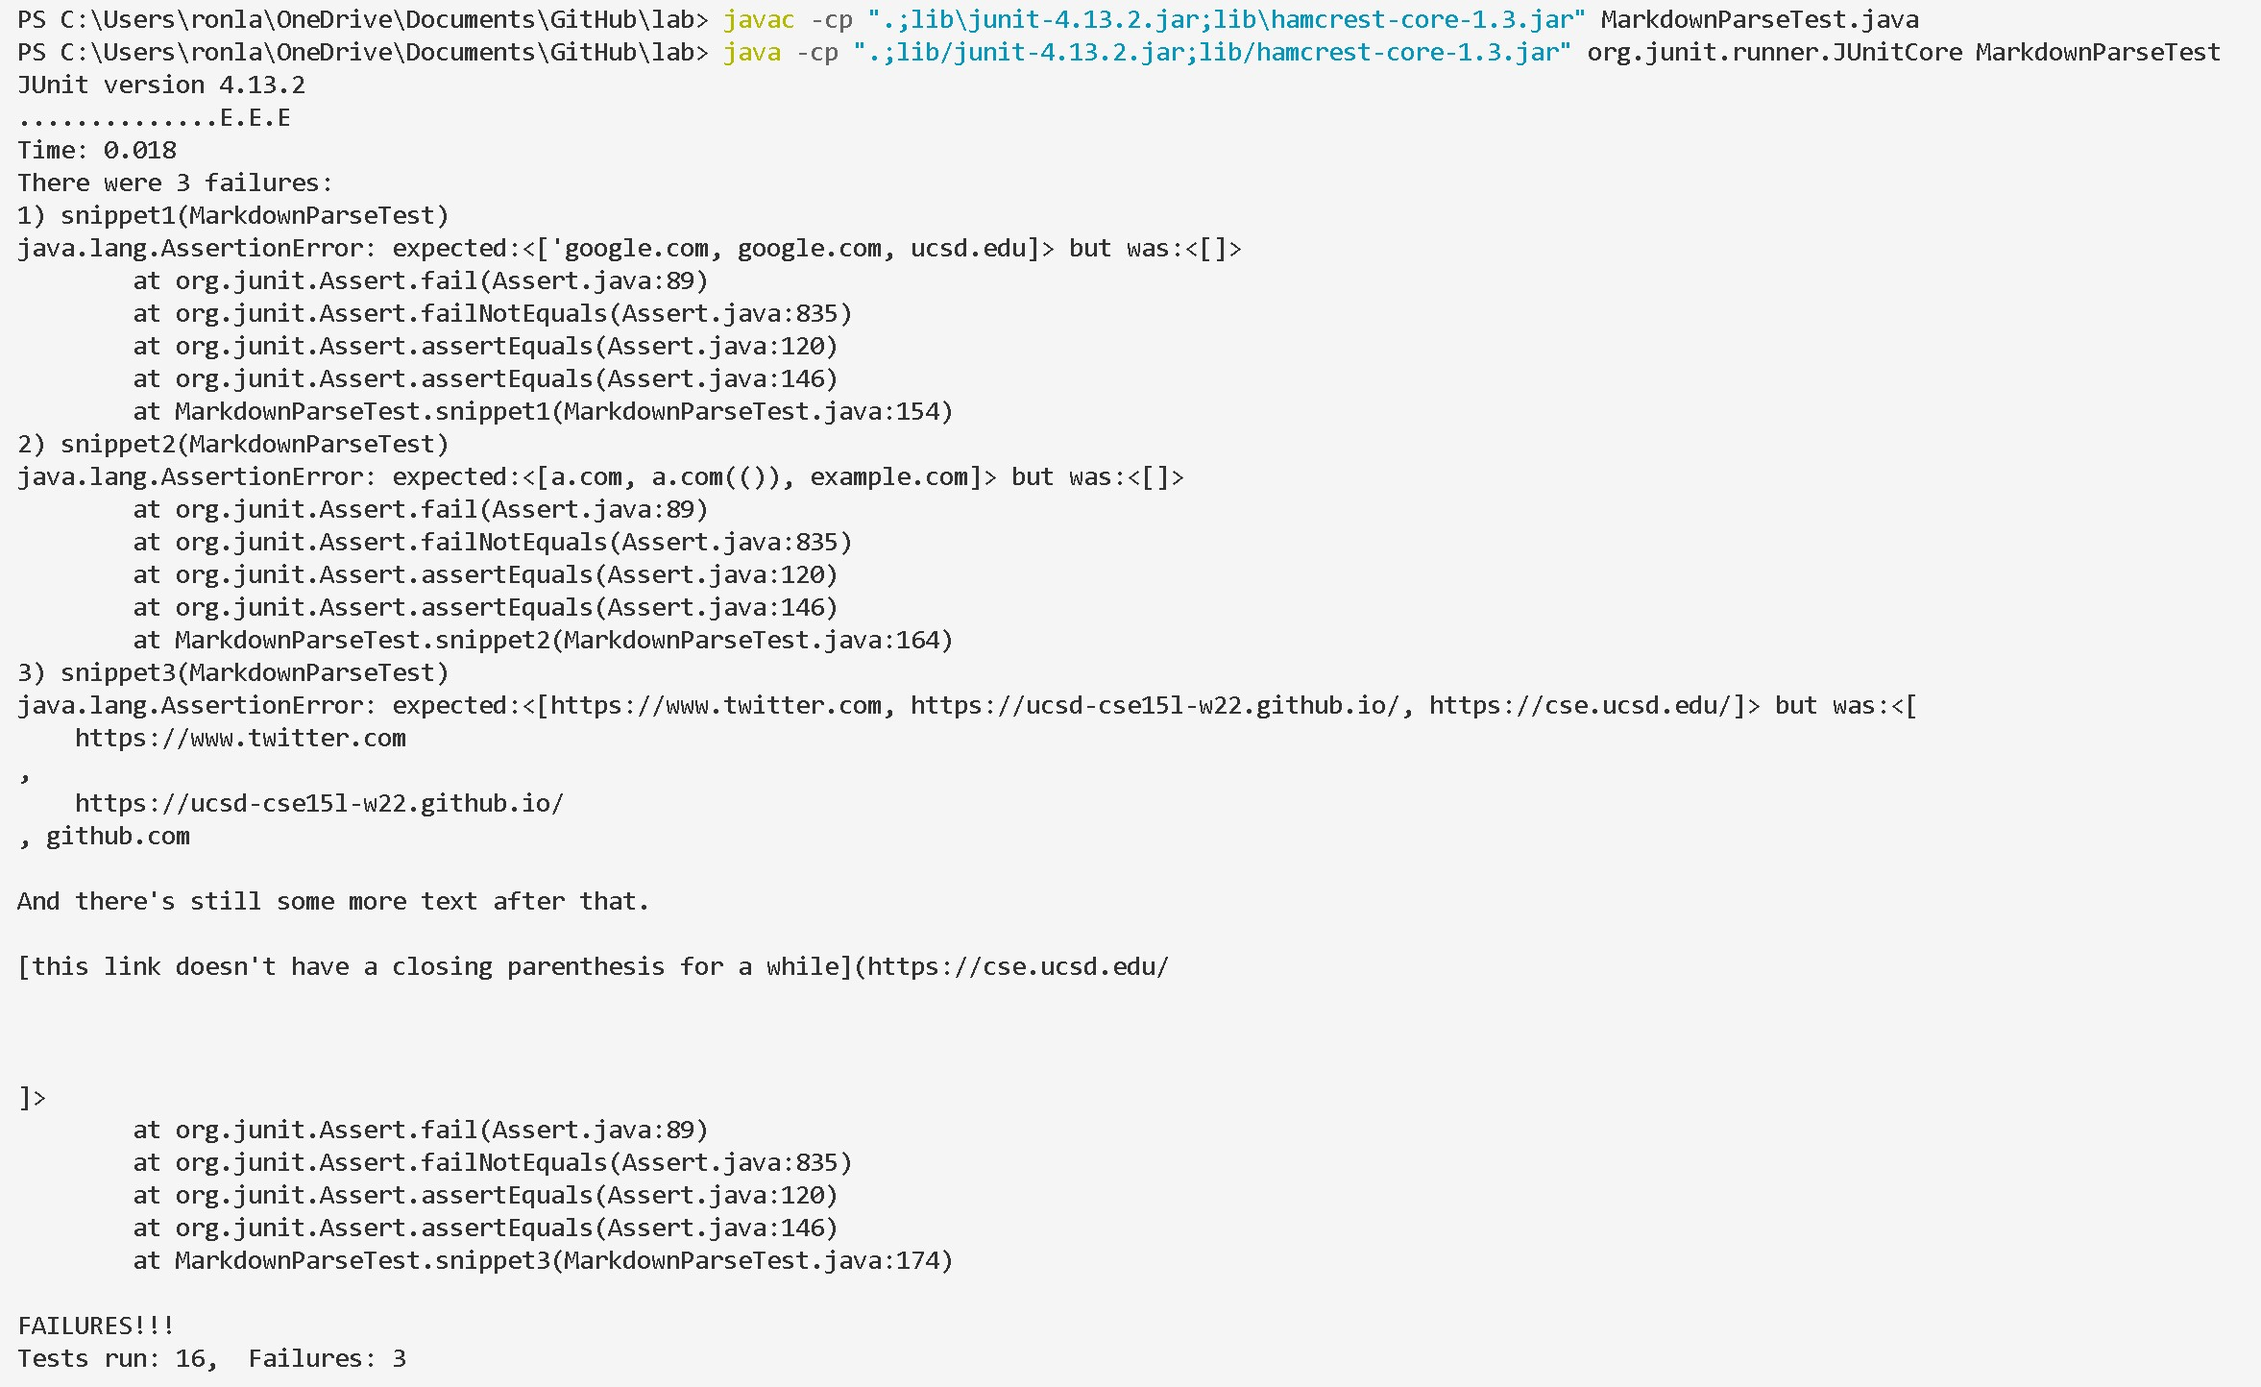
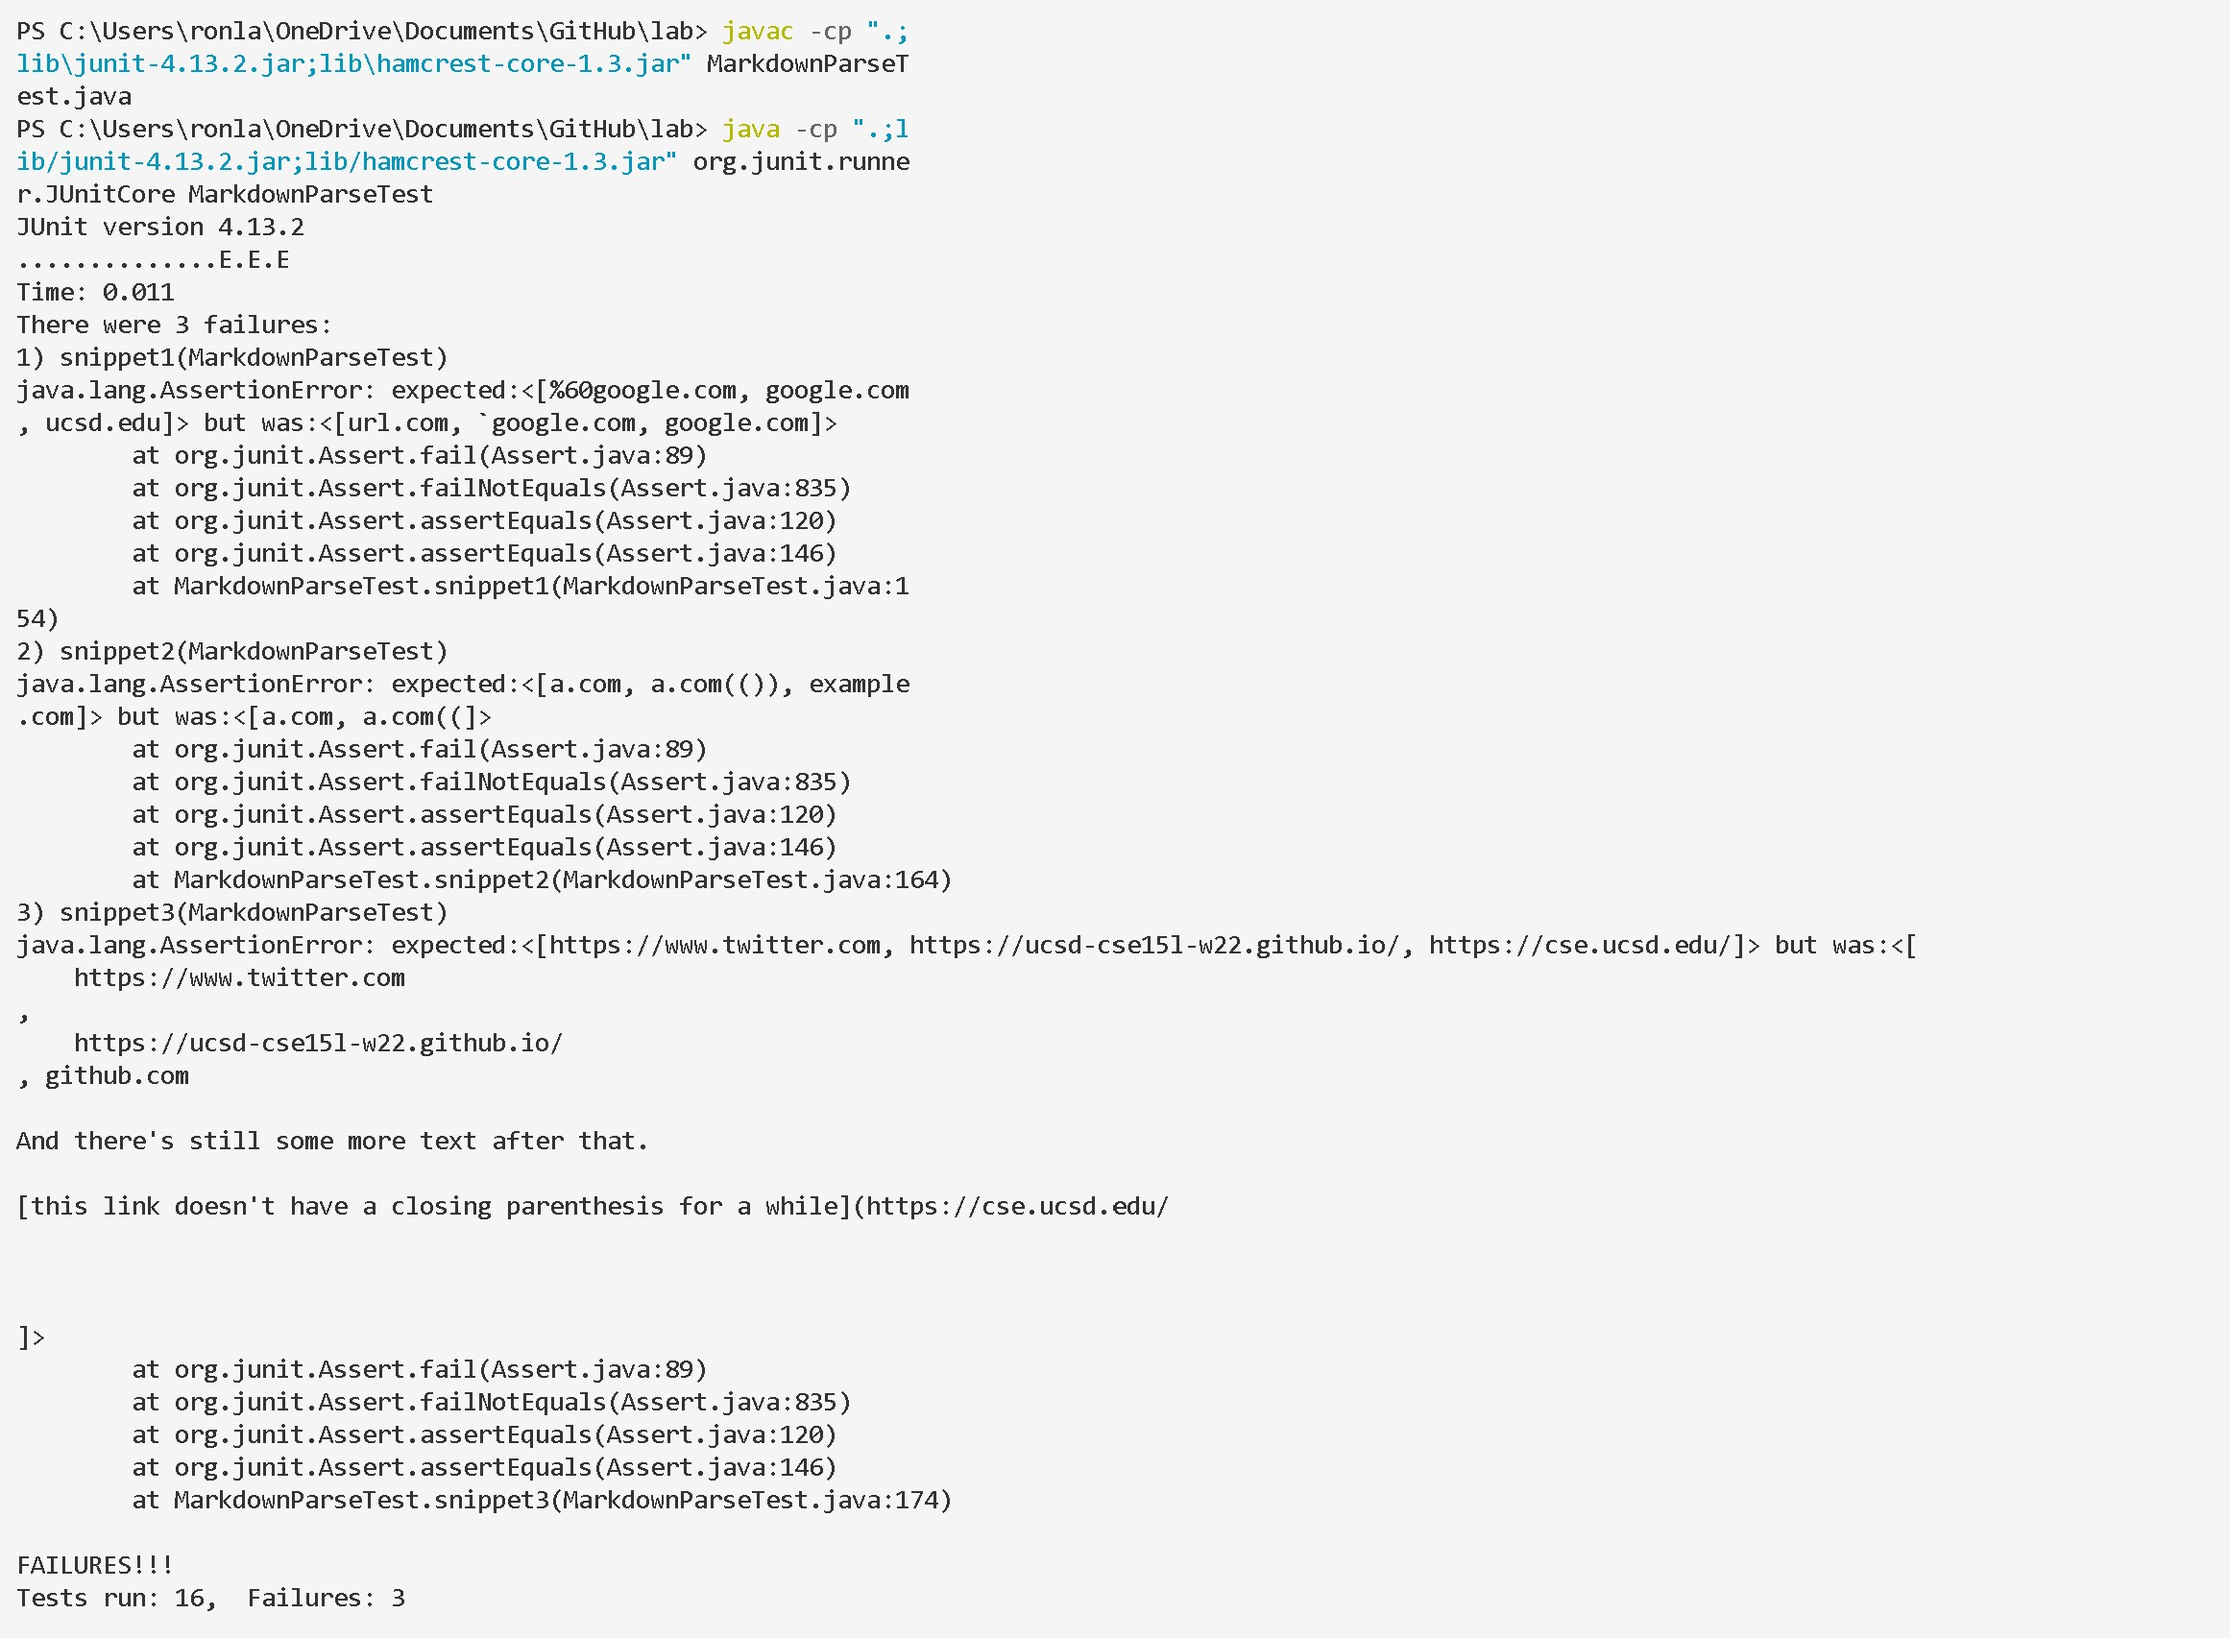
lab4

diff --git a/Lab4/lab-report-4-week-8.md b/Lab4/lab-report-4-week-8.md
@@ -1,0 +1,40 @@
+### Lab Report 4 - CSE 15L Week 8
+\
+\
+During this lab, I used the markdown-parse code from these two Repository. <br>
+<br>
+&nbsp;&nbsp;&nbsp;&nbsp;&nbsp; my implementation: [https://github.com/RonLai8o/markdown-parse.git](https://github.com/RonLai8o/markdown-parse.git)
+\
+&nbsp;&nbsp;&nbsp;&nbsp;&nbsp;&nbsp;the implementation I reviewed: [https://github.com/tylercyang/markdown-parse](https://github.com/tylercyang/markdown-parse)
+    
+My implementation test's result
+\
+\
+![myImplementation](myImplementation.jpg)
+\
+\
+My reviewed implementation test's result
+\
+\
+![reviewed](reviewedImplementation.jpg)
+
+### Lab Questions
+1. Do you think there is a small (<10 lines) code change that will make your program work for snippet 1 and all related cases that use inline code with backticks? If yes, describe the code change. If not, describe why it would be a more involved change.
+    \
+    \
+    I don't think a small code change that will make my program work for snippet 1 and all related cases that use inline code with backticks. We can track whether there is a backticks before open parentheses to know whether we searched code or not.If our search is code, then we can search the corresponding number of backticks to skip the code part and go to the next loop. This part need one while loop and 3 or four if-statement, so it will take mroe than 10 lines when the if-statement and while-loop take at least two line for each. 
+    \
+    \
+    In addition, if the backticks is a part of link, bewteen the open parentheses and closing parentheses, then we just need to conver it to %60. This part can take 3 to four lines.
+    \
+    <br>
+1. Do you think there is a small (<10 lines) code change that will make your program work for snippet 2 and all related cases that nest parentheses, brackets, and escaped brackets? If yes, describe the code change. If not, describe why it would be a more involved change.
+    \
+    \
+    I am not able to make a small code change to make my program work for snippet 2 and all related cases because this fix required multiple while loop to search bracket, parentheses, and escaped brakets. When while-loop and if-statement required more than two line, the fix has to have more than 10 lines. 
+    \
+    <br>
+1. Do you think there is a small (<10 lines) code change that will make your program work for snippet 3 and all related cases that have newlines in brackets and parentheses? If yes, describe the code change. If not, describe why it would be a more involved change.
+    \
+    \
+    Yes, a small code change can make my program work for snippet 3 and all related cases about newlines in brackets and parentheses. We only need to use string.trim() method to remove the space and new line at the beginning and the ending string.
